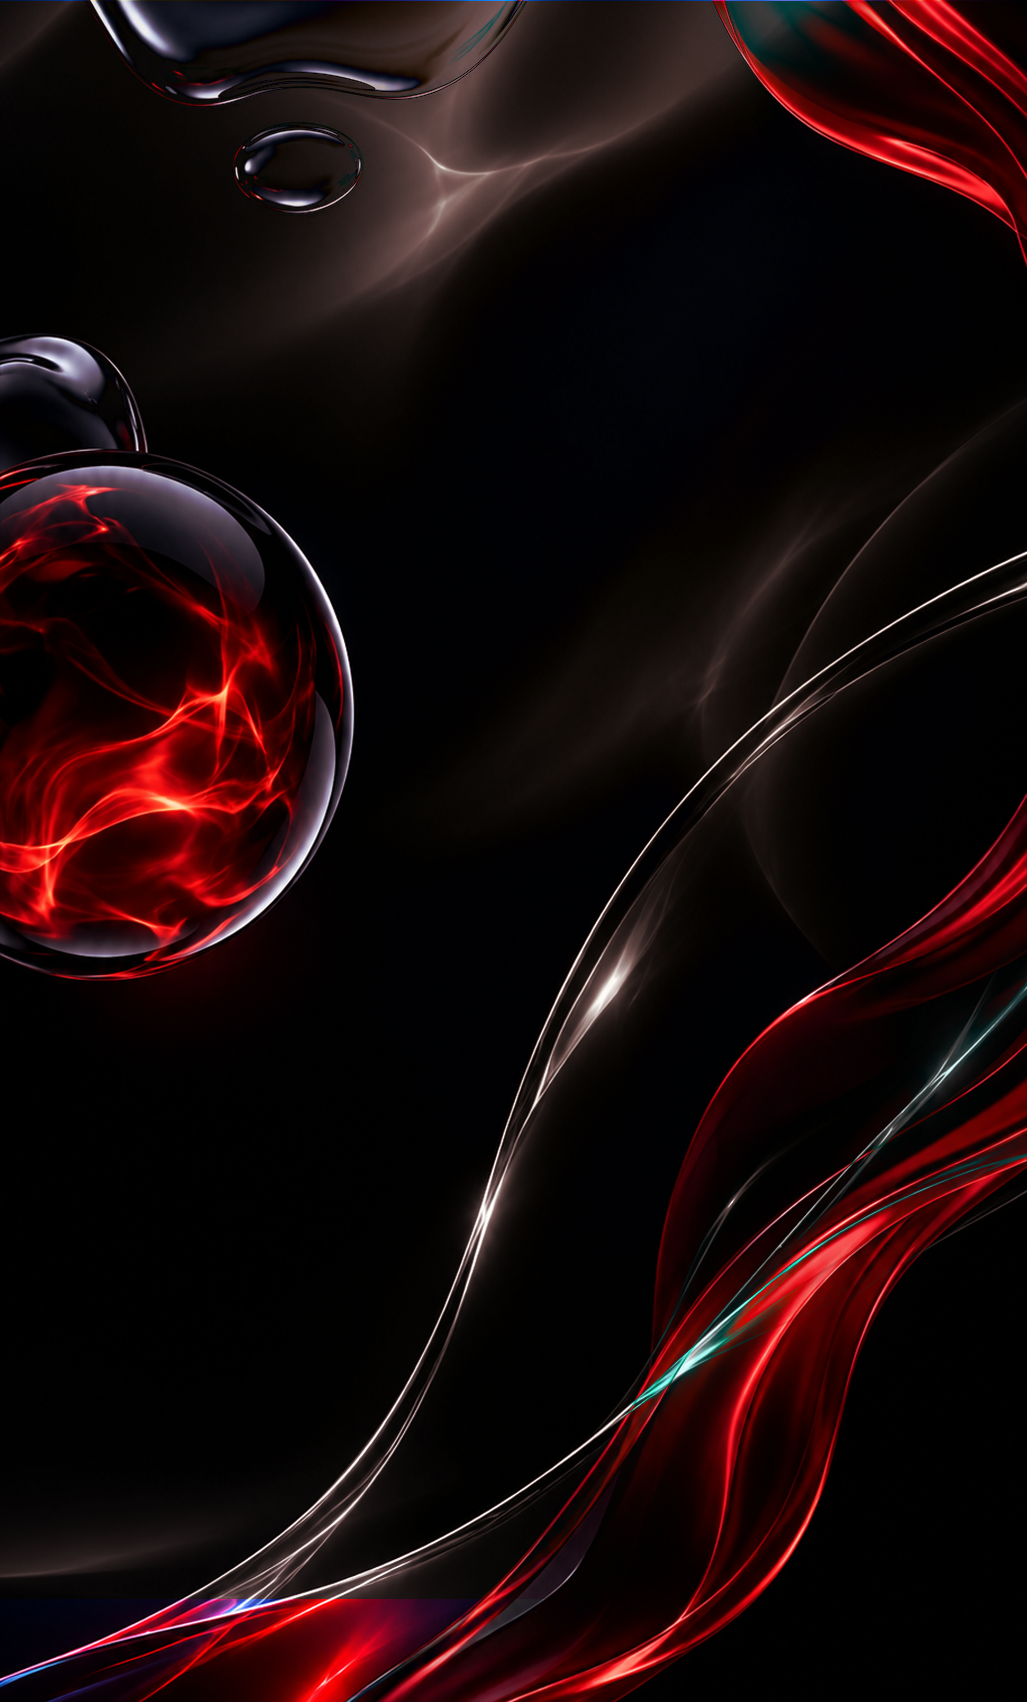
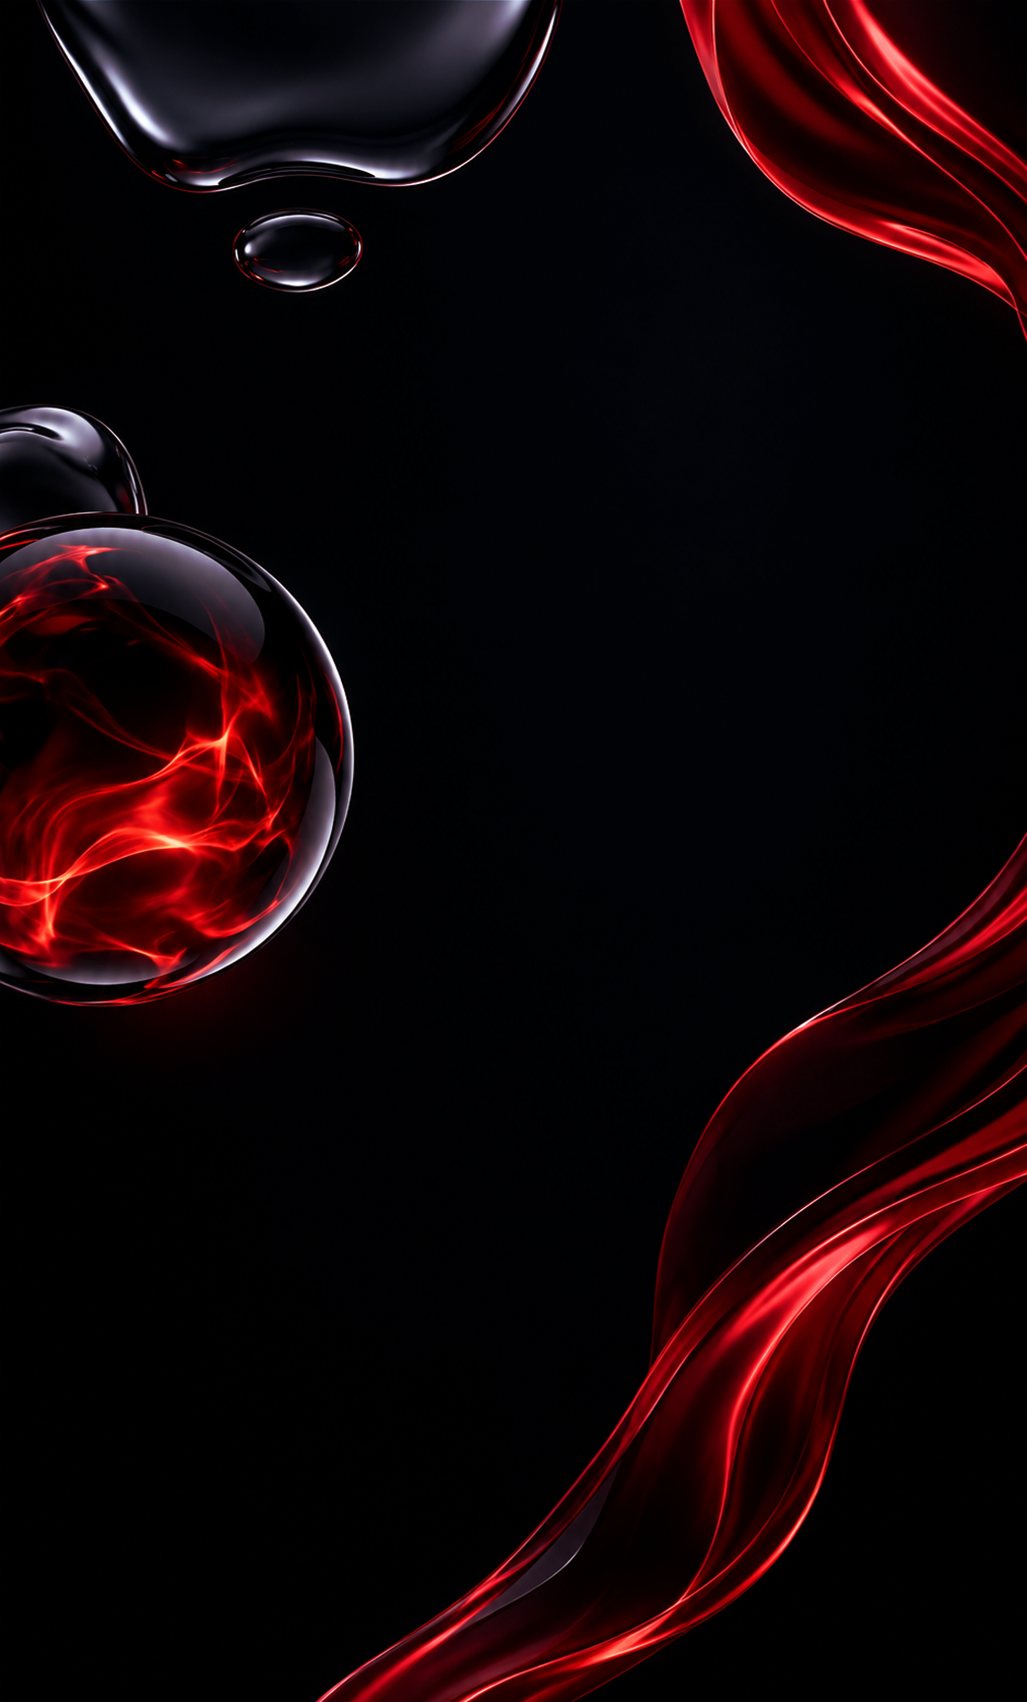
Add files via upload

diff --git a/about.html b/about.html
@@ -32,6 +32,15 @@
   <!-- FONT AWESOME -->
   <link rel="stylesheet" href="https://cdnjs.cloudflare.com/ajax/libs/font-awesome/6.6.0/css/all.min.css">
 
+  <!-- CRITICAL ASSET PRELOADS (PREVENT DELAYED SCROLL LOADING ON MOBILE) -->
+  <link rel="preload" as="image" href="32.png" media="(max-width: 768px)" fetchpriority="high">
+  <link rel="preload" as="image" href="1.png" media="(min-width: 769px)">
+  <link rel="preload" as="image" href="30.png" fetchpriority="high">
+  <link rel="preload" as="image" href="signature_clean.png" fetchpriority="high">
+  <link rel="preload" as="image" href="ab.webp">
+  <link rel="preload" as="image" href="ap1.webp">
+  <link rel="preload" as="image" href="31.png">
+  <link rel="preload" as="image" href="icon3.png">
 
   <style>
     /* =========================================================
@@ -3144,7 +3153,6 @@
     background-position: center top !important;
     background-size: cover !important;
     background-repeat: no-repeat !important;
-    background-attachment: fixed !important;
   }
 
   /* Keep the original ambient visual system */
@@ -3941,7 +3949,7 @@
         </div>
 
         <div class="signature-vision-row">
-          <img src="signature_clean.png" alt="Abdullah Psychotic" class="founder-signature-img" loading="lazy">
+          <img src="signature_clean.png" alt="Abdullah Psychotic" class="founder-signature-img" loading="eager" decoding="async" fetchpriority="high">
           <div class="vision-tag-wrap">
             <span class="vision-dash"></span>
             <div class="vision-labels">
@@ -4043,7 +4051,7 @@
             <span class="window-meta-tag">ORIGIN · 001</span>
           </div>
           <div class="visual-image-wrap">
-            <img src="ab.webp" alt="Abdullah Forhad - The Ordinary Beginning" loading="lazy">
+            <img src="ab.webp" alt="Abdullah Forhad - The Ordinary Beginning" loading="eager" decoding="async">
             <div class="visual-overlay-gradient"></div>
             <div class="floating-accent-badge">
               <i class="fas fa-feather-pointed"></i>
@@ -4053,7 +4061,7 @@
               </div>
             </div>
             <div class="liquid-watermark-logo">
-              <img src="icon3.png" alt="AP Emblem">
+              <img src="icon3.png" alt="AP Emblem" loading="eager" decoding="async">
             </div>
           </div>
           <div class="visual-card-content">
@@ -4159,7 +4167,7 @@
             <span class="window-meta-tag">DISCIPLINE · 100%</span>
           </div>
           <div class="visual-image-wrap">
-            <img src="ap1.webp" alt="The Spirit of Abdullah Psychotic" loading="lazy">
+            <img src="ap1.webp" alt="The Spirit of Abdullah Psychotic" loading="eager" decoding="async">
             <div class="visual-overlay-gradient"></div>
             <div class="floating-accent-badge">
               <i class="fas fa-fire"></i>
@@ -4169,7 +4177,7 @@
               </div>
             </div>
             <div class="liquid-watermark-logo">
-              <img src="icon3.png" alt="AP Emblem">
+              <img src="icon3.png" alt="AP Emblem" loading="eager" decoding="async">
             </div>
           </div>
           <div class="visual-card-content">
@@ -4326,7 +4334,7 @@
             </p>
           </div>
           <div class="liquid-watermark-logo">
-            <img src="31.png" alt="AP Emblem">
+            <img src="31.png" alt="AP Emblem" loading="eager" decoding="async">
           </div>
         </div>
       </div>
@@ -4447,7 +4455,7 @@
     <div class="footer-container">
       <div class="footer-brand-col">
         <div class="brand-logo-wrap">
-          <img src="logo0.webp" alt="Abdullah Psychotic" style="height: 38px;">
+          <img src="logo0.webp" alt="Abdullah Psychotic" style="height: 38px;" loading="eager" decoding="async">
         </div>
         <p>
           Defining contemporary dark luxury streetwear with architectural silhouettes, heavyweight craftsmanship, and an unyielding philosophy of identity.
@@ -4610,7 +4618,30 @@
   ========================================================= --> 
   <script> 
     'use strict'; 
- 
+
+    /* ================= INSTANT ASSET PRELOAD & GPU DECODE ================= */
+    // Guarantee all visual content is decoded and ready prior to scroll
+    if (typeof window !== 'undefined') {
+      const preloadAssets = [
+        '32.png',
+        '1.png',
+        '30.png',
+        'signature_clean.png',
+        'ab.webp',
+        'ap1.webp',
+        '31.png',
+        'icon3.png',
+        'logo0.webp'
+      ];
+      preloadAssets.forEach(src => {
+        const img = new Image();
+        img.src = src;
+        if (img.decode) {
+          img.decode().catch(() => {});
+        }
+      });
+    }
+
     /* ================= CART SYNCHRONIZATION ================= */ 
     let cart = []; 
     try { 
@@ -4748,9 +4779,11 @@
     syncHeaderHeight(); 
     window.addEventListener('resize', syncHeaderHeight); 
  
+    let lastActiveSection = '';
+
     window.addEventListener('scroll', () => { 
       const scrollY = window.scrollY; 
- 
+
       // Header shrunk style 
       if (scrollY > 30) { 
         mainHeader.classList.add('scrolled'); 
@@ -4758,14 +4791,14 @@
         mainHeader.classList.remove('scrolled'); 
       } 
       syncHeaderHeight(); 
- 
+
       // Toggle vertical indexer visibility on desktop past master hero 
       if (scrollY > 380) { 
         document.body.classList.add('scrolled-past-hero'); 
       } else { 
         document.body.classList.remove('scrolled-past-hero'); 
       } 
- 
+
       // Auto highlight vertical indexer steps (01, 02, 03) 
       const storySec = document.getElementById('mystory'); 
       const beginSec = document.getElementById('beginning'); 
@@ -4782,7 +4815,7 @@
           indexSteps[2].classList.add('active'); 
         } 
       } 
- 
+
       // Auto highlight active chapter pill during scroll 
       let currentSection = ''; 
       chapters.forEach(sec => { 
@@ -4792,8 +4825,9 @@
           currentSection = sec.getAttribute('id'); 
         } 
       }); 
- 
-      if (currentSection) { 
+
+      if (currentSection && currentSection !== lastActiveSection) { 
+        lastActiveSection = currentSection;
         pills.forEach(pill => { 
           if (pill.getAttribute('href') === `#${currentSection}`) { 
             pill.classList.add('active'); 
